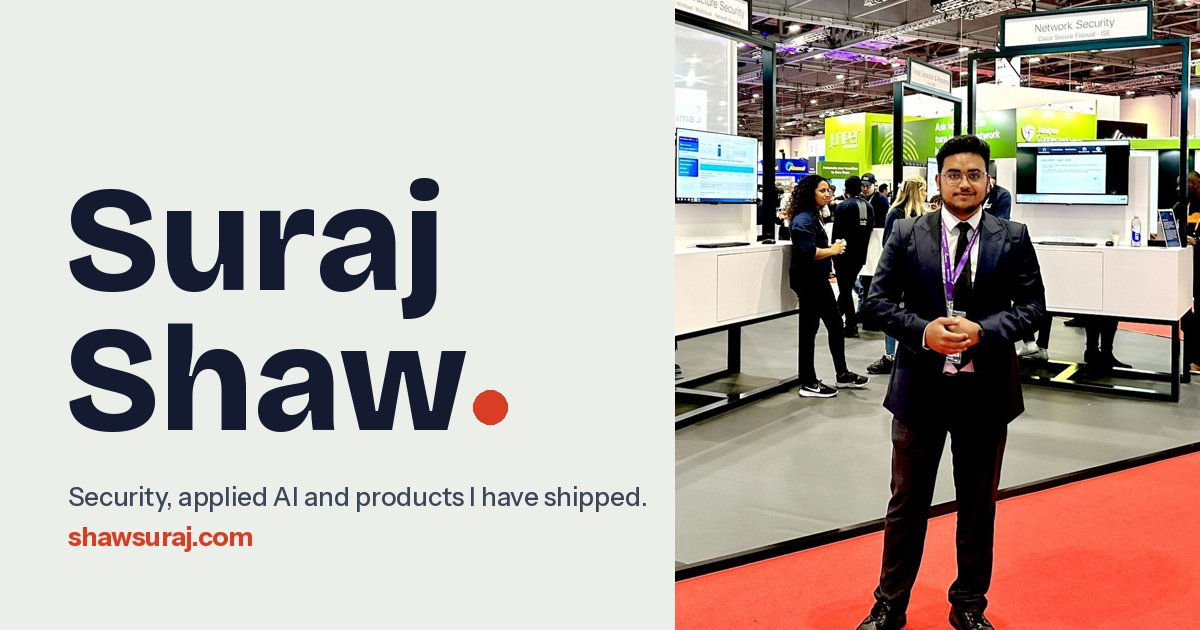
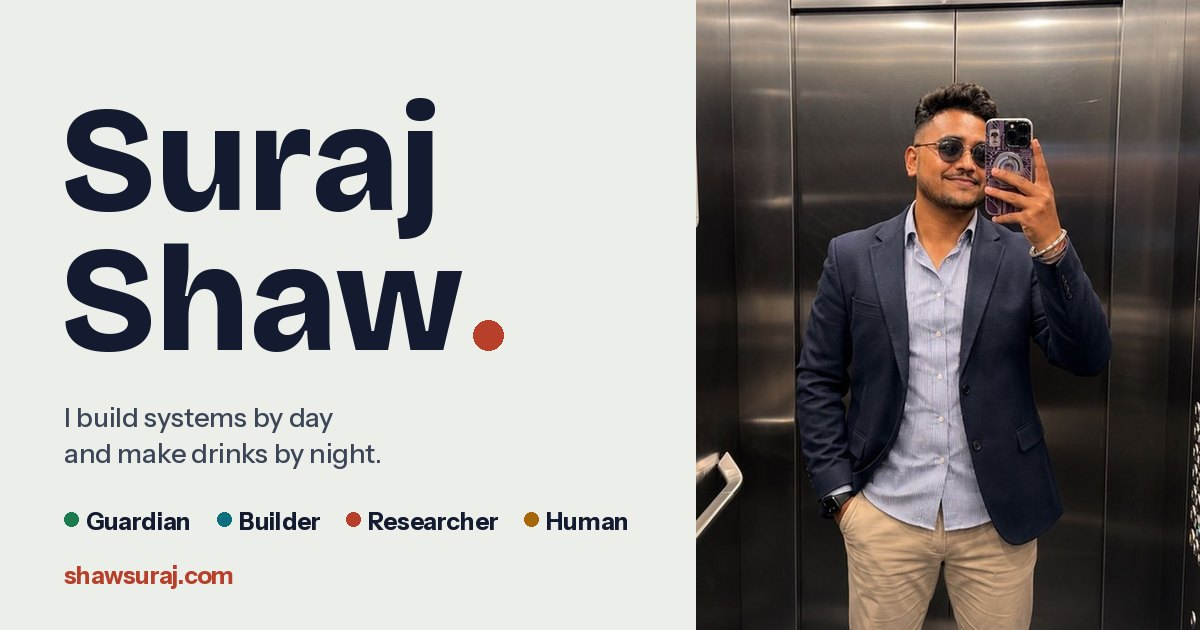
Refresh link preview image with the four world colours
Claude-Session: https://claude.ai/code/session_01J7n3YQ4y9QiDkrJYfAYANg

diff --git a/dist/researcher.html b/dist/researcher.html
@@ -16,6 +16,9 @@
 <meta property="og:description" content="Suraj Shaw's research: forecasting the direction of everyday routine from passive sensing data, with calibrated confidence. ORCID 0009-0002-4482-8013.">
 <meta property="og:url" content="https://shawsuraj.com/researcher">
 <meta property="og:image" content="https://shawsuraj.com/assets/og.jpg">
+<meta property="og:image:width" content="1200">
+<meta property="og:image:height" content="630">
+<meta property="og:image:alt" content="Suraj Shaw. I build systems by day and make drinks by night.">
 <meta name="twitter:card" content="summary_large_image">
 <meta name="twitter:site" content="@shawsurajss">
 <meta name="theme-color" content="#eceee9" media="(prefers-color-scheme: light)">

diff --git a/dist/human.html b/dist/human.html
@@ -16,6 +16,9 @@
 <meta property="og:description" content="Suraj Shaw in hospitality and student leadership: five years behind London bars, a hotel as Managing Director, and an elected students' union officer.">
 <meta property="og:url" content="https://shawsuraj.com/human">
 <meta property="og:image" content="https://shawsuraj.com/assets/og.jpg">
+<meta property="og:image:width" content="1200">
+<meta property="og:image:height" content="630">
+<meta property="og:image:alt" content="Suraj Shaw. I build systems by day and make drinks by night.">
 <meta name="twitter:card" content="summary_large_image">
 <meta name="twitter:site" content="@shawsurajss">
 <meta name="theme-color" content="#eceee9" media="(prefers-color-scheme: light)">

diff --git a/dist/guardian.html b/dist/guardian.html
@@ -16,6 +16,9 @@
 <meta property="og:description" content="Suraj Shaw on security: LCSP certified since 2019, VAPT on live targets, lab tools on GitHub, working toward CEH and OSCP.">
 <meta property="og:url" content="https://shawsuraj.com/guardian">
 <meta property="og:image" content="https://shawsuraj.com/assets/og.jpg">
+<meta property="og:image:width" content="1200">
+<meta property="og:image:height" content="630">
+<meta property="og:image:alt" content="Suraj Shaw. I build systems by day and make drinks by night.">
 <meta name="twitter:card" content="summary_large_image">
 <meta name="twitter:site" content="@shawsurajss">
 <meta name="theme-color" content="#eceee9" media="(prefers-color-scheme: light)">

diff --git a/dist/index.html b/dist/index.html
@@ -16,6 +16,9 @@
 <meta property="og:description" content="Suraj Shaw, London. Security, products, research and five years behind London bars. Four worlds, one person.">
 <meta property="og:url" content="https://shawsuraj.com/">
 <meta property="og:image" content="https://shawsuraj.com/assets/og.jpg">
+<meta property="og:image:width" content="1200">
+<meta property="og:image:height" content="630">
+<meta property="og:image:alt" content="Suraj Shaw. I build systems by day and make drinks by night.">
 <meta name="twitter:card" content="summary_large_image">
 <meta name="twitter:site" content="@shawsurajss">
 <meta name="theme-color" content="#eceee9" media="(prefers-color-scheme: light)">

diff --git a/dist/builder.html b/dist/builder.html
@@ -16,6 +16,9 @@
 <meta property="og:description" content="Suraj Shaw builds and runs World Chaos Map, MaetriXs, One Sentence and Public Opinion, solo.">
 <meta property="og:url" content="https://shawsuraj.com/builder">
 <meta property="og:image" content="https://shawsuraj.com/assets/og.jpg">
+<meta property="og:image:width" content="1200">
+<meta property="og:image:height" content="630">
+<meta property="og:image:alt" content="Suraj Shaw. I build systems by day and make drinks by night.">
 <meta name="twitter:card" content="summary_large_image">
 <meta name="twitter:site" content="@shawsurajss">
 <meta name="theme-color" content="#eceee9" media="(prefers-color-scheme: light)">

diff --git a/build.py b/build.py
@@ -61,7 +61,7 @@ def head(meta, slug, full):
     if full:
         h += [f'<link rel="canonical" href="{url}">', '<meta property="og:type" content="profile">',
               f'<meta property="og:title" content="{meta["title"]}">', f'<meta property="og:description" content="{meta["desc"]}">',
-              f'<meta property="og:url" content="{url}">', '<meta property="og:image" content="https://shawsuraj.com/assets/og.jpg">',
+              f'<meta property="og:url" content="{url}">', '<meta property="og:image" content="https://shawsuraj.com/assets/og.jpg">', '<meta property="og:image:width" content="1200">', '<meta property="og:image:height" content="630">', '<meta property="og:image:alt" content="Suraj Shaw. I build systems by day and make drinks by night.">',
               '<meta name="twitter:card" content="summary_large_image">', '<meta name="twitter:site" content="@shawsurajss">',
               '<meta name="theme-color" content="#eceee9" media="(prefers-color-scheme: light)">',
               '<meta name="theme-color" content="#0f1322" media="(prefers-color-scheme: dark)">']
